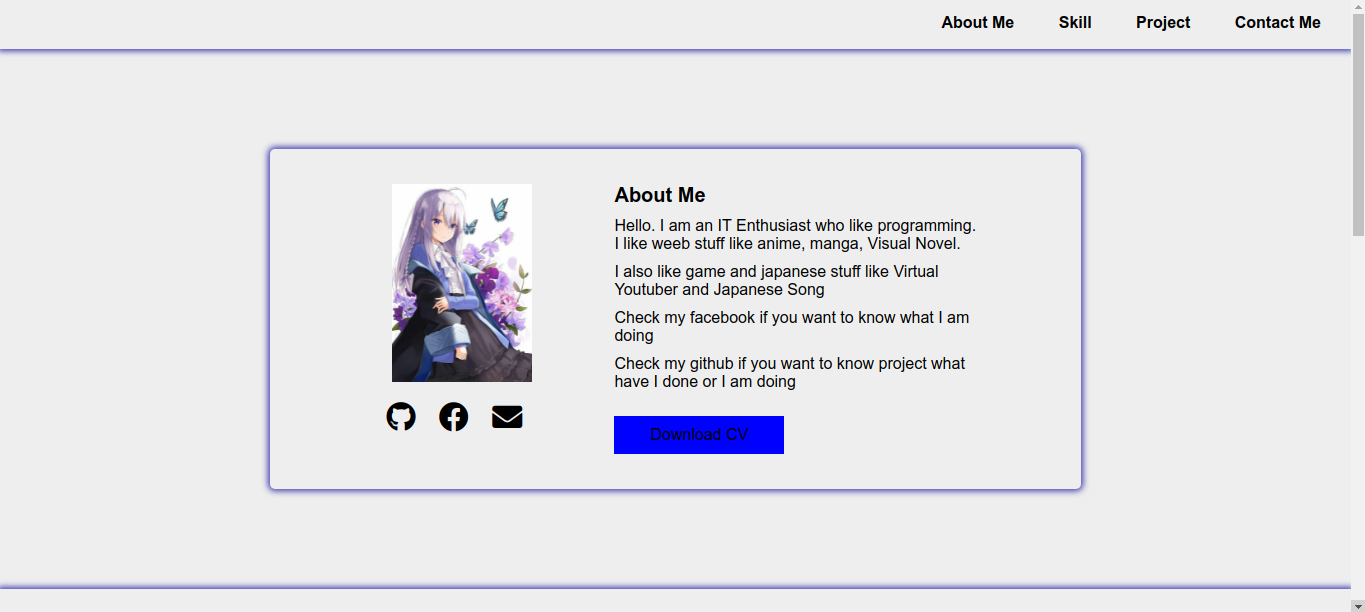
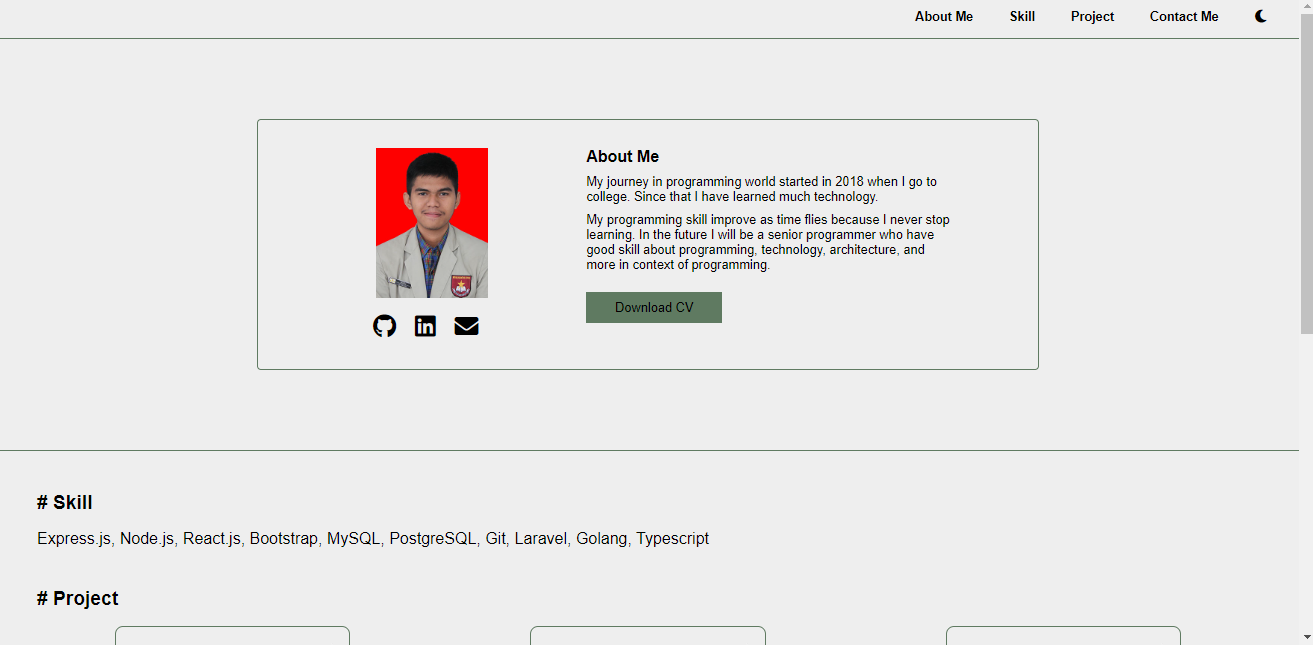
update some stuffs and data

Changed region(s): [[0.0312, 0.2173, 0.8119, 0.8693], [0.0, 0.0, 1.0, 0.5278], [0.0, 0.9003, 1.0, 1.0]]

diff --git a/index.html b/index.html
@@ -5,7 +5,7 @@
     <meta charset="UTF-8">
     <meta http-equiv="X-UA-Compatible" content="IE=edge">
     <meta name="viewport" content="width=device-width, initial-scale=1.0">
-    <title>Portofolio</title>
+    <title>Portofolio - Badru</title>
     <link rel="stylesheet" href="style.css">
     <link rel="stylesheet" href="https://use.fontawesome.com/releases/v5.15.4/css/all.css"
         integrity="sha384-DyZ88mC6Up2uqS4h/KRgHuoeGwBcD4Ng9SiP4dIRy0EXTlnuz47vAwmeGwVChigm" crossorigin="anonymous">
@@ -27,22 +27,19 @@
         <div id="about-me" class="about-me-wrapper">
             <div class="about-me">
                 <div class="pp">
-                    <img src="./img/pp.jpg" alt="">
+                    <img src="./img/badru.jpg" alt="">
                     <div class="medsos">
-                        <a href="https://github.com/badruti94/" target="_blank" ><i class="fab fa-github"></i></a>
-                        <a href="https://facebook.com/airani.iofifteen.1" target="_blank" ><i class="fab fa-facebook"></i></a>
+                        <a href="https://github.com/badruti94" target="_blank" ><i class="fab fa-github"></i></a>
+                        <a href="https://www.linkedin.com/in/badru-akfm" target="_blank" ><i class="fab fa-linkedin"></i></a>
                         <a href="mailto:badruakfm@gmail.com" target="_blank" ><i class="fas fa-envelope"></i></a>
                     </div>
                 </div>
                 <div class="info">
                     <h1>About Me</h1>
-                    <p>Hello. My name is Badru. I am an IT Enthusiast who like programming. I like weeb stuff like anime, manga, Visual Novel.</p>
-                    <p>I also like game and japanese stuff like Virtual Youtuber and Japanese Song.</p>
-                    <p>Check my facebook if you want to know what I am doing. Check my github if you want to know project what have I done or I am doing.</p>
-                    <p></p>
-                    <p>Thank you</p>
+                    <p>My journey in programming world started in 2018 when I go to college. Since that I have learned much technology. </p>
+                    <p>My programming skill improve as time flies because I never stop learning. In the future I will be a senior programmer who have good skill about programming, technology, architecture, and more in context of programming.</p>
                     <div class="cv">
-                        <a href="">Download CV</a>
+                        <a href="https://drive.google.com/file/d/1uV-xJCsekGk3grSq-xVPsMD_9jJiOrRx/view?usp=sharing" target="_blank">Download CV</a>
                     </div>
                 </div>
             </div>
@@ -50,7 +47,7 @@
         <div class="wrapper">
             <section id="skill" >
                 <h2># Skill</h2>
-                <p style="font-size: 20px;" >Javascript, React, Node JS, MySQL</p>
+                <p style="font-size: 20px;" >Express.js, Node.js, React.js, Bootstrap, MySQL, PostgreSQL, Git, Laravel, Golang, Typescript</p>
             </section>
             <section id="project" >
                 <h2># Project</h2>
@@ -129,7 +126,7 @@
     </main>
     <footer>
         <p>Design by <a href="https://www.youtube.com/c/GoingToInternet" target="_blank" >Going To Internet</a></p>
-        <span id="contact-me" >Contact Me : &copy; <a href="mailto:badruakfm@gmail.com" target="_blank">badruakfm@gmail.com</a></span>
+        <span id="contact-me" >Contact Me : &copy; <a href="https://wa.me/08980936892" target="_blank">08980936892</a></span>
     </footer>
 
     <script src="./data.js"></script>

diff --git a/data.js b/data.js
@@ -2,7 +2,7 @@ const projects = [
     {
         title : 'Portofolio',
         image : 'portofolio.png',
-        description : 'Portofolio that I made with vanilla CSS and vanilla Javascript.',
+        description : 'My portofolio. Build with vanilla js and CSS.',
         githubs: [
             'https://github.com/badruti94/badruti94.github.io',
         ],

diff --git a/style.css b/style.css
@@ -99,6 +99,7 @@ nav ul li a {
 }
 
 .info .cv {
+    margin: 0 auto;
     margin-top: 25px;
     max-width: 150px;
     background-color: #5F7A61;
